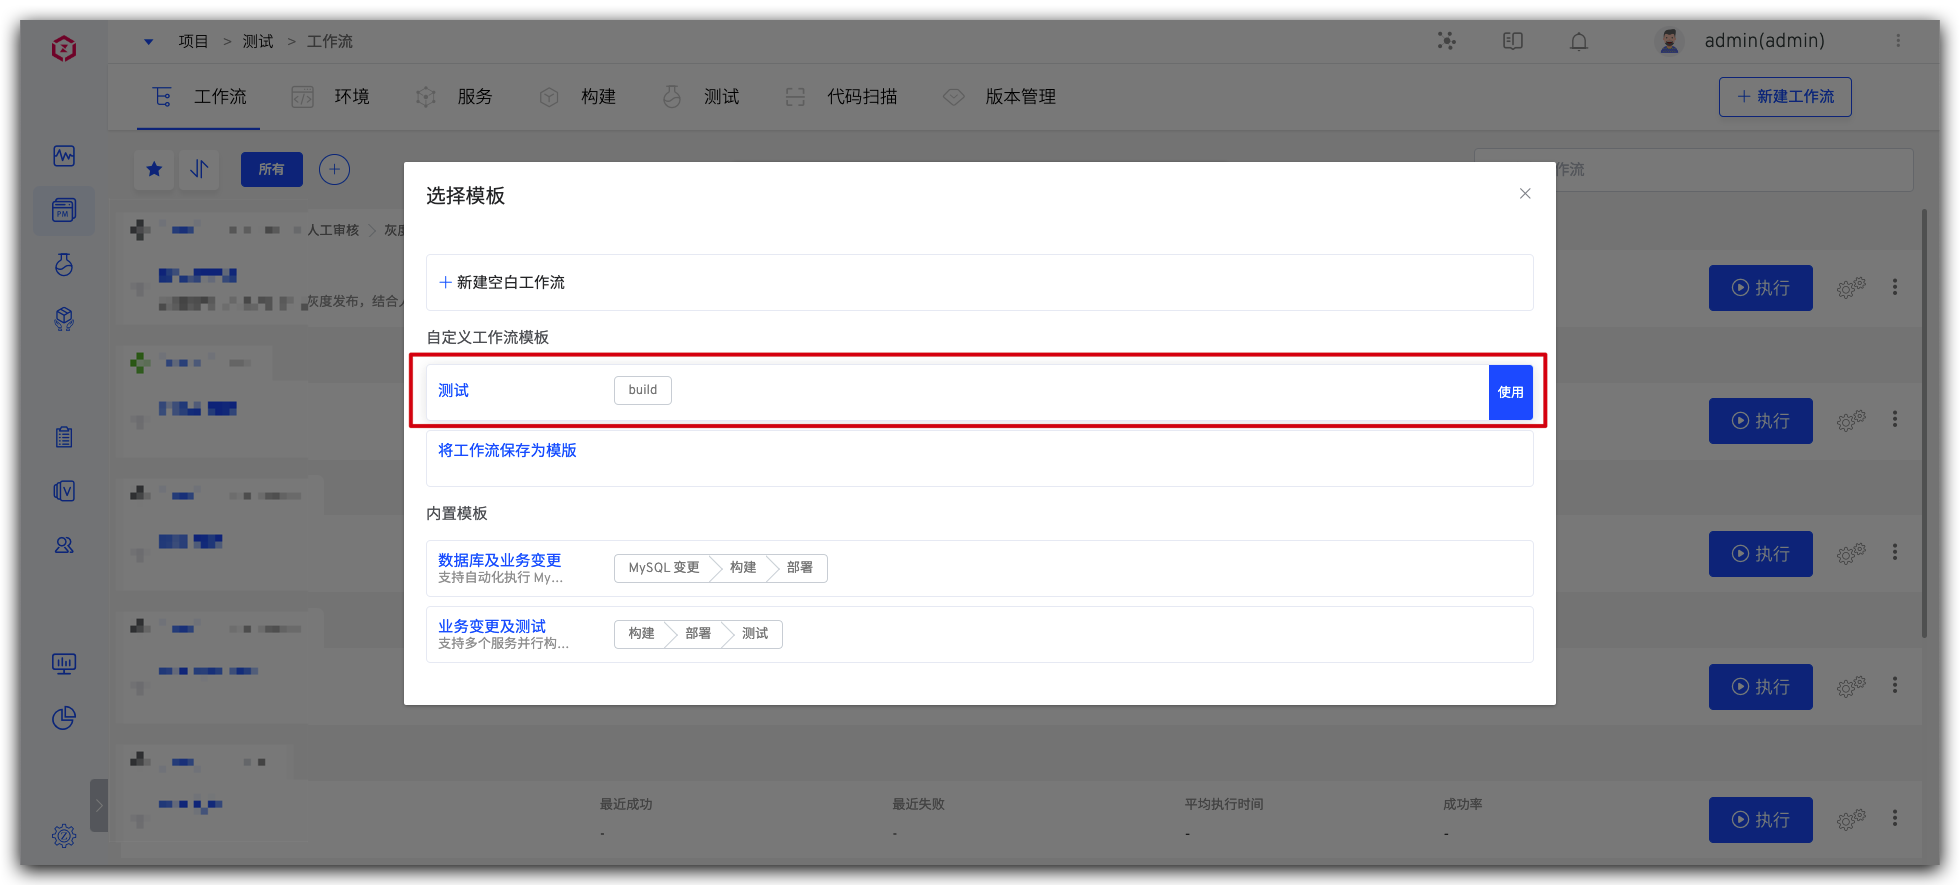
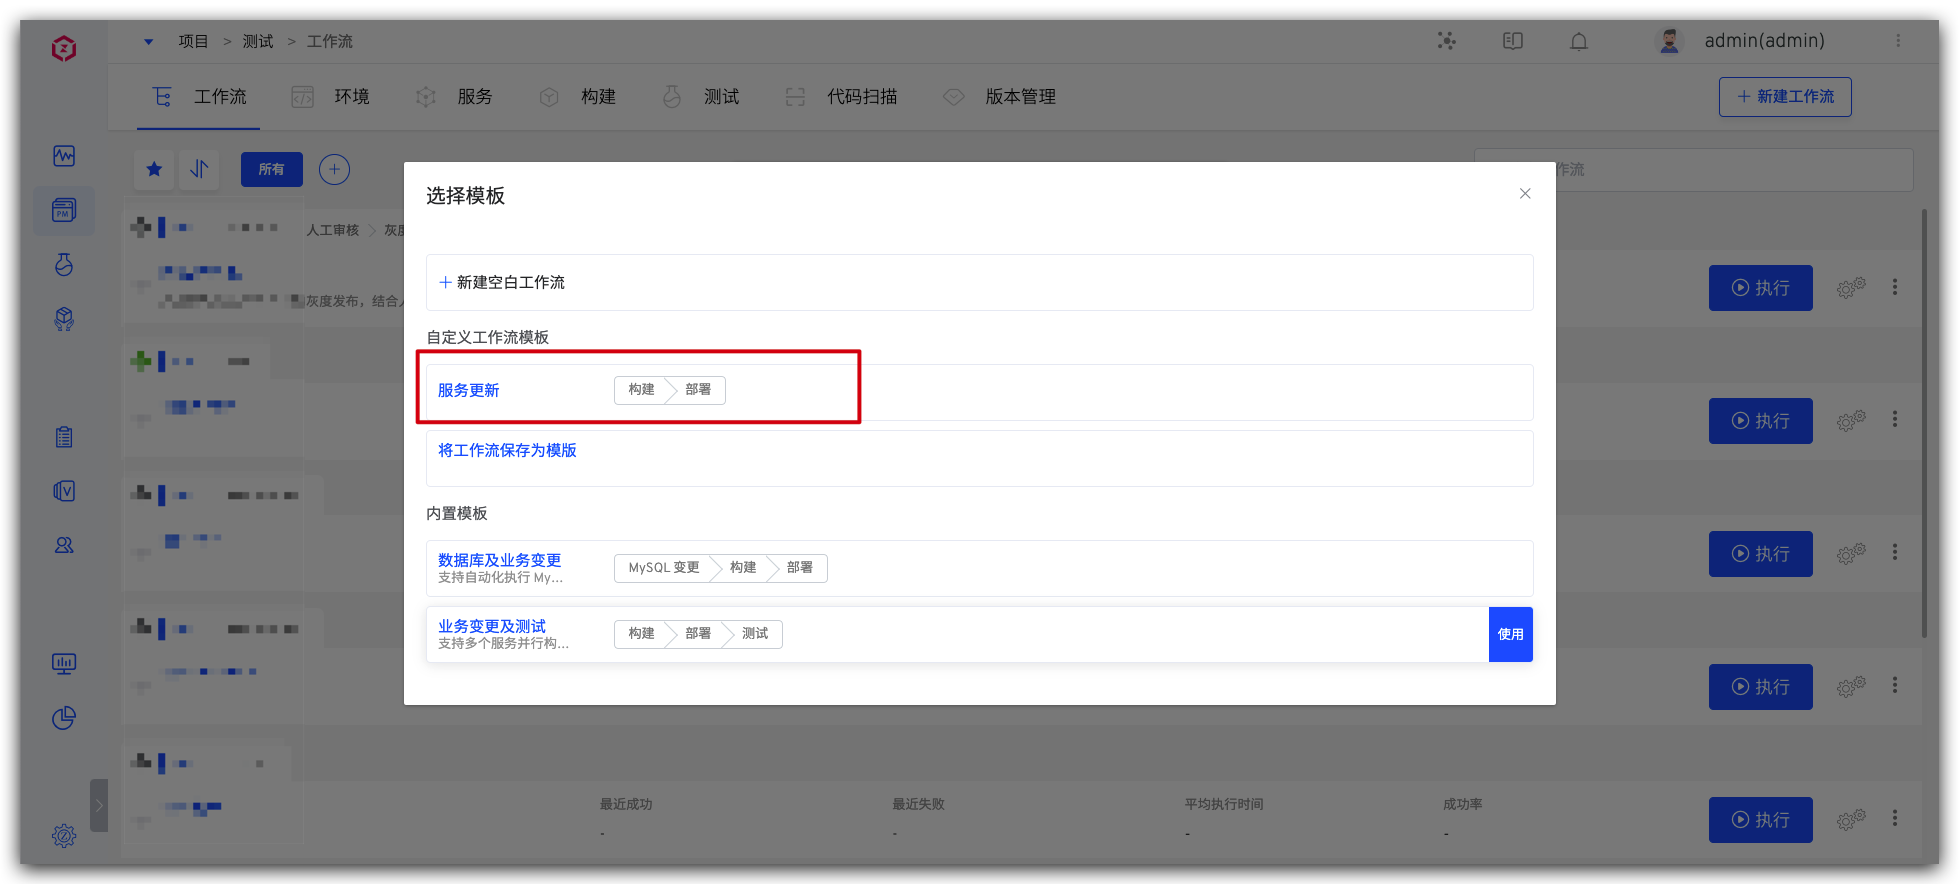
update

diff --git a/dev/04.项目/00.项目定义/03.Hosting K8s Resources.md b/dev/04.项目/00.项目定义/03.Hosting K8s Resources.md
@@ -39,9 +39,9 @@ permalink: /dev/project/host-k8s-resources/
 
 ![触发工作流](../_images/show_updated_host_service.png)
 
-## 托管项目切换 K8s YAML 项目类型 <Badge text="企业版" />
+## 托管项目切换 K8s YAML 项目类型
 
-用户可根据需要将现有托管项目一键切换为 K8s YAML 项目。
+用户可根据需要将现有托管项目一键切换为 K8s YAML 项目。<Badge text="企业版" />
 
 ::: tip 提示
 切换后：
@@ -50,7 +50,7 @@ permalink: /dev/project/host-k8s-resources/
 
 所有托管的环境在新项目中均展示。
 
-所有环境下的服务均会被托管展示，多个相同服务仅保留一个。
+所有环境下的服务配置均会被托管展示，多个相同服务配置仅保留一个。
 :::
 
 进入对应托管项目，点击 `切换项目类型`，完成项目类型切换。

diff --git a/dev/05.模板库/04.workflow.md b/dev/05.模板库/04.workflow.md
@@ -42,7 +42,7 @@ permalink: /dev/template/workflow/
 
 
 ### 模板
-- 这里以自定义工作流为例，可以看到刚刚创建的，名为 `测试` 的自定义工作流模板，点击使用，即可以该模板新建一个自定义工作流。
+- 这里以自定义工作流为例，可以看到已创建的，名为 `服务更新` 的自定义工作流模板，点击使用，即可以该模板新建一个自定义工作流。
 
 ![使用工作流模板](./_images/use_workflow_template_02.png)
 ![使用工作流模板](./_images/use_workflow_template_03.png)
